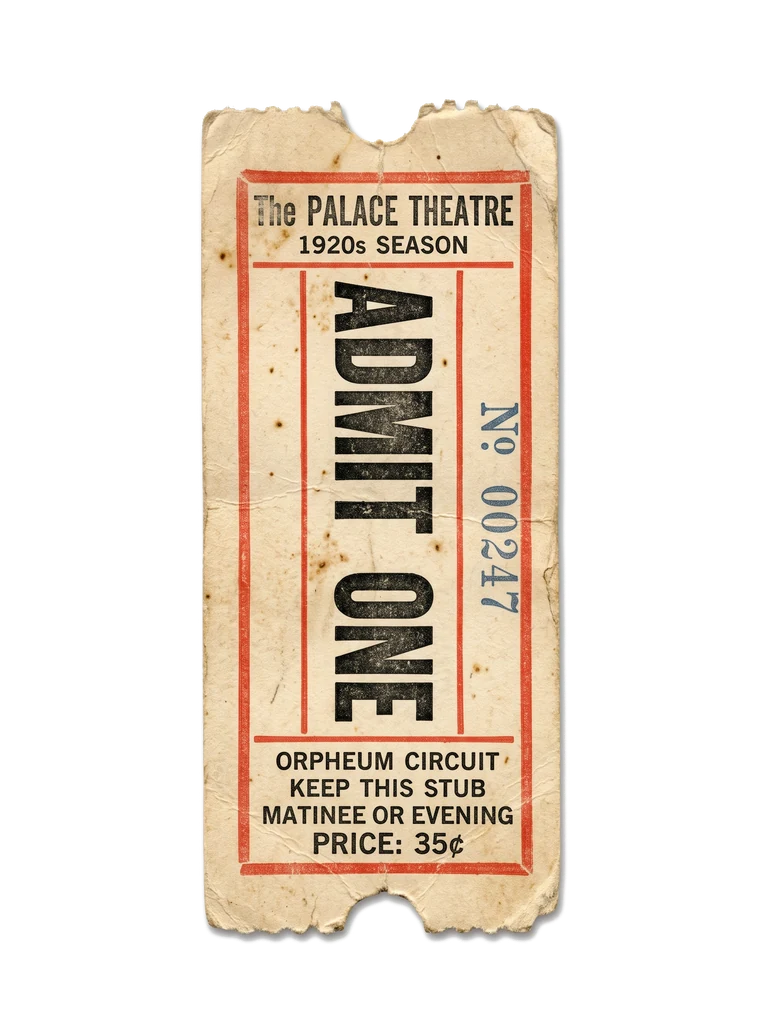
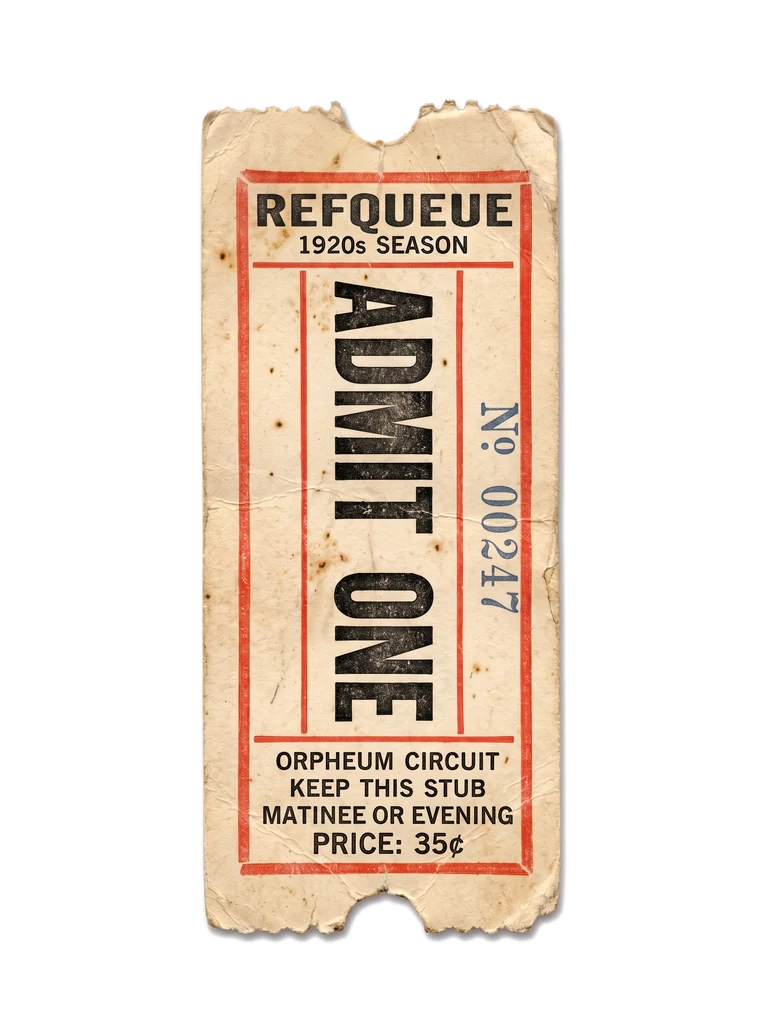
refine(landing): strip the letterhead, lead with a huge "No. 247", re-letter the ticket
Per feedback, simplify the landing hero:
- Remove the whole letterhead masthead (Est. MMXXVI / Variety Co. / Booth No.)
  and its rule — the sheet now opens straight on the hero.
- Drop the "The waitlist that moves" kicker.
- Headline is now just "No. 247" (247 in accent red) set large
  (clamp 56–118px), replacing "You're No. 247 in line."
- Remove the "☞ your number" pointer beside the ticket.
- Re-letter the scanned ticket from "The Palace Theatre" to "REFQUEUE"
  (edited + re-keyed to a transparent 85KB WebP).

Status page unchanged. DESIGN.md updated. Verified landing desktop + mobile.

diff --git a/src/app/page.module.css b/src/app/page.module.css
@@ -13,24 +13,6 @@
   padding: 40px clamp(28px, 5vw, 64px) 34px;
 }
 
-/* Letterhead */
-.head {
-  display: flex;
-  align-items: center;
-  justify-content: space-between;
-  gap: 16px;
-  font-size: 12px;
-  color: var(--ink-soft);
-}
-
-.headMid {
-  letter-spacing: 0.24em;
-}
-
-.ruleTop {
-  margin-top: 14px;
-}
-
 /* Hero — copy left, ticket stub right */
 .hero {
   display: grid;
@@ -65,22 +47,12 @@
   margin-bottom: 16px;
 }
 
-.kicker {
-  font-family: var(--font-oswald), system-ui, sans-serif;
-  text-transform: uppercase;
-  letter-spacing: 0.22em;
-  font-size: 13px;
-  font-weight: 600;
-  color: var(--accent);
-  margin-bottom: 14px;
-}
-
 .title {
   font-family: var(--font-rye), Georgia, 'Times New Roman', serif;
   font-weight: 400;
-  font-size: clamp(38px, 6vw, 74px);
-  line-height: 1;
-  letter-spacing: 0.01em;
+  font-size: clamp(56px, 10vw, 118px);
+  line-height: 0.98;
+  letter-spacing: 0.02em;
   color: var(--ink);
   text-shadow: 1px 1px 0 rgba(90, 60, 25, 0.12);
   text-wrap: balance;
@@ -134,25 +106,6 @@
   transform: rotate(4.5deg);
 }
 
-.annot {
-  position: absolute;
-  left: 0;
-  top: 30%;
-  font-family: var(--font-oswald), system-ui, sans-serif;
-  text-transform: uppercase;
-  letter-spacing: 0.14em;
-  font-size: 11px;
-  font-weight: 600;
-  color: var(--accent);
-  transform: rotate(-6deg);
-}
-
-.arrow {
-  display: block;
-  font-size: 20px;
-  line-height: 0.8;
-}
-
 .ruleActs {
   margin-bottom: 20px;
 }
@@ -204,13 +157,6 @@
   .sheet {
     padding: 28px 20px 26px;
   }
-  .head {
-    justify-content: center;
-  }
-  .head span:first-child,
-  .head span:last-child {
-    display: none;
-  }
   .hero {
     grid-template-columns: 1fr;
     gap: 10px;
@@ -229,9 +175,6 @@
   }
   .boxoffice {
     max-width: 100%;
-  }
-  .annot {
-    display: none;
   }
   .acts {
     grid-template-columns: 1fr;

diff --git a/src/app/page.tsx b/src/app/page.tsx
@@ -36,14 +36,6 @@ export default async function LandingPage({ searchParams }: Props) {
     <main className={`rq-surface ${styles.main}`} style={accentStyle(theme)}>
       <div className={`${styles.sheet} rq-sheet rq-enter`}>
         <div className="rq-frame">
-          {/* Letterhead */}
-          <div className={`${styles.head} rq-caps`}>
-            <span>★ Est. MMXXVI</span>
-            <span className={styles.headMid}>The {waitlist.name} Variety Co.</span>
-            <span>Booth No. 247 ★</span>
-          </div>
-          <hr className={`${styles.ruleTop} rq-rule rq-rule--thick`} />
-
           {/* Hero — copy on the left, the ticket stub on the right */}
           <div className={styles.hero}>
             <div className={styles.copy}>
@@ -56,12 +48,11 @@ export default async function LandingPage({ searchParams }: Props) {
                 // eslint-disable-next-line @next/next/no-img-element -- arbitrary maker-hosted URL; next/image needs known hosts/dimensions
                 <img src={theme.logoUrl} alt={`${waitlist.name} logo`} className={styles.logo} />
               )}
-              <span className={styles.kicker}>The waitlist that moves</span>
               {theme.headline ? (
                 <h1 className={styles.title}>{theme.headline}</h1>
               ) : (
                 <h1 className={styles.title}>
-                  You’re No. <span className={styles.em}>247</span> in line.
+                  No. <span className={styles.em}>247</span>
                 </h1>
               )}
               <p className={styles.lede}>
@@ -85,11 +76,8 @@ export default async function LandingPage({ searchParams }: Props) {
                 src="/ticket-admit-one.webp"
                 width={760}
                 height={1018}
-                alt="A vintage Admit One theatre ticket, serial No 00247"
+                alt="A vintage RefQueue Admit One theatre ticket, serial No 00247"
               />
-              <div className={styles.annot} aria-hidden="true">
-                <span className={styles.arrow}>☞</span>your number
-              </div>
             </div>
           </div>
 

diff --git a/DESIGN.md b/DESIGN.md
@@ -21,14 +21,14 @@ flows through the whole piece and still reads on aged paper (pick a saturated mi
 ## 1. Atmosphere & Identity
 
 RefQueue reads like a **printed variety-show programme**: an aged paper sheet, a double-ruled
-frame, a letterhead masthead, a hand-set letterpress headline, and a torn ticket stub. The drama
+frame, a hand-set letterpress headline, and a torn ticket stub. The drama
 is **material** — grain, vignette, ink-on-paper contrast, and one saturated red. Type carries the
 period: an aged display face (Rye) for the headline and serials, a condensed grotesque (Oswald)
 for uppercase utility lettering, and a slab serif (Zilla Slab) for programme body copy.
 
-**Signature:** the **numbered ticket**. On the landing it is a real scanned *Admit One* stub
-(serial No 00247) with a hand-drawn "☞ your number" pointer. On the status page it becomes
-**your live position printed as a serial** — `No. 41` set huge in Rye red inside a bordered stub.
+**Signature:** the **numbered ticket**. On the landing it is a real scanned *REFQUEUE Admit One*
+stub (serial No 00247) beside a huge `No. 247` headline. On the status page it becomes **your live
+position printed as a serial** — `No. 41` set huge in Rye red inside a bordered stub.
 
 ---
 
@@ -127,20 +127,19 @@ Base unit **4px**. The public page is a centered **sheet** floating on the board
   + warm vignette (`::after`) + drop shadow. Inside, a `.rq-frame` double border wraps the content.
 - **States:** static; entrance = fade + rise (`.rq-enter`), reduced-motion safe.
 
-### Letterhead
-- **Structure:** an Oswald-caps masthead. Landing: three-part (`★ Est. MMXXVI` · `The {name}
-  Variety Co.` · `Booth No. 247 ★`) with the side flourishes hidden ≤760px. Status: a single
-  centered `★ The {name} Variety Co. ★`. Followed by a thick double rule.
+### Letterhead (status only)
+- **Structure:** an Oswald-caps masthead — a single centered `★ The {name} Variety Co. ★`
+  followed by a thick double rule. The landing has **no** letterhead; it opens straight on the hero.
 
 ### Hero headline (landing)
-- **Structure:** red Oswald kicker ("The waitlist that moves"), then the Rye `<h1>` — default
-  **"You're No. 247 in line."** with `247` in `--accent` — then a Zilla Slab lede. `theme.headline`
-  / `theme.subhead` override the defaults.
+- **Structure:** the Rye `<h1>` alone — default **"No. 247"** with `247` in `--accent`, set large
+  (`clamp(56px, 10vw, 118px)`) — then a Zilla Slab lede. No kicker. `theme.headline` /
+  `theme.subhead` override the defaults.
 
 ### Ticket stub — landing
-- **Structure:** the real scanned *Admit One* cutout (`/ticket-admit-one.webp`, transparent PNG
-  keyed from a generated ticket, ~92KB), rotated 4.5°, with a rotated Oswald "☞ your number"
-  pointer. Decorative; `aria-hidden` pointer; descriptive `alt` on the image.
+- **Structure:** the real scanned *REFQUEUE Admit One* cutout (`/ticket-admit-one.webp`,
+  transparent WebP keyed from a generated ticket, ~85KB), rotated 4.5°. Decorative; descriptive
+  `alt` on the image.
 
 ### Box office (SignupForm)
 - **Structure:** an Oswald-caps label ("Present your address at the window"), a hard-ruled field
@@ -194,7 +193,7 @@ Base unit **4px**. The public page is a centered **sheet** floating on the board
   legible. Digit alignment handled in the animation mini-plan.
 - **Light-only** — the public pages are always the aged-paper surface (the designed screenshot/video
   surface). No dark variant; grain + vignette + red supply the drama.
-- **Landing ticket is a fixed demo serial (No 00247)** — a scanned image, so it does not reflect a
-  visitor's real number (they have none yet). The *status* stub is the live, dynamic serial.
+- **Landing ticket is a fixed demo serial (REFQUEUE · No 00247)** — a scanned image, so it does not
+  reflect a visitor's real number (they have none yet). The *status* stub is the live, dynamic serial.
 - **Full Lighthouse-100 audit + react-scan tooling** — not run this pass (SSR, near-zero client JS,
   one ~92KB image, fast by architecture). Revisit if needed.